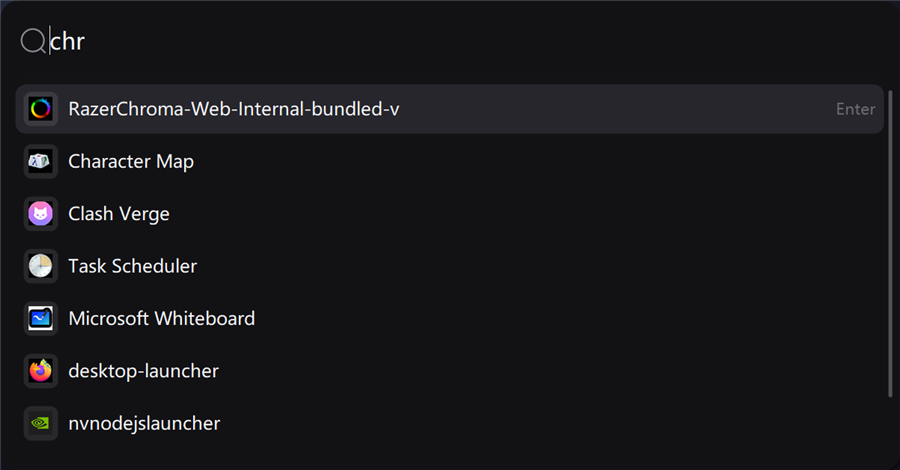
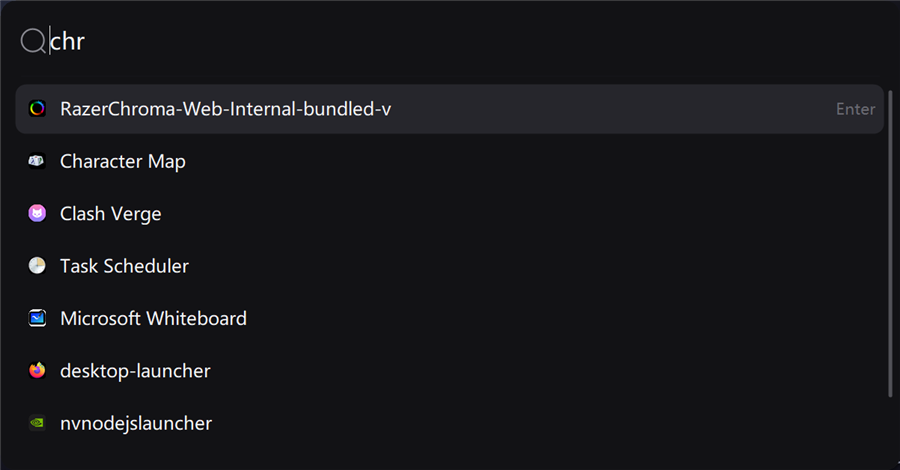
图标与搜索框图标精修
- 列表图标 18px -> 13px，去掉底片，方形图标加圆角裁剪，视觉重心回到文字
- 放大镜直径 30px -> 23px、笔触压细压暗，与列表图标同列对齐，并让输入文字与列表文字左边缘对齐
- 新增 config.ini 的 IconSize（10-28）与 IconWell 开关，可直接调外观不用重新编译

diff --git a/src/QuickStart.cs b/src/QuickStart.cs
@@ -131,7 +131,8 @@ namespace QuickStart
         public double WidthRatio = 0.47;
         public bool MatchPath = true;
         public bool ScanProgramFiles = true;
-        public bool IconWell = true;
+        public bool IconWell = false;
+        public int IconSize = 13;      // 图标边长（逻辑像素）
 
         private const string Template =
             "# QuickStart 配置\r\n" +
@@ -155,7 +156,10 @@ namespace QuickStart
             "ScanProgramFiles=true\r\n" +
             "\r\n" +
             "# 图标是否加一层极淡的圆角底片（让形状各异的图标看起来更整齐；true/false）\r\n" +
-            "IconWell=true\r\n";
+            "IconWell=false\r\n" +
+            "\r\n" +
+            "# 图标边长（逻辑像素），10-28\r\n" +
+            "IconSize=13\r\n";
 
         public static Config Load(string path)
         {
@@ -192,6 +196,10 @@ namespace QuickStart
                         case "matchpath": c.MatchPath = Truthy(v); break;
                         case "scanprogramfiles": c.ScanProgramFiles = Truthy(v); break;
                         case "iconwell": c.IconWell = Truthy(v); break;
+                        case "iconsize":
+                            int sz;
+                            if (int.TryParse(v, out sz) && sz >= 10 && sz <= 28) c.IconSize = sz;
+                            break;
                     }
                 }
             }
@@ -1137,7 +1145,8 @@ namespace QuickStart
         private Font _fontInput, _fontItem, _fontHint, _fontMono;
         private Theme _theme;
         private Brush _brBg, _brCard, _brText, _brSub, _brSel, _brAccent, _brSelBorder, _brTile;
-        private bool _softWell = true;      // 图标是否加"极淡底片"，来自 config.ini 的 IconWell
+        private bool _softWell = false;     // 图标是否加"极淡底片"，来自 config.ini 的 IconWell
+        private int _iconSize = 13;         // 图标边长，来自 config.ini 的 IconSize
         private Pen _penBorder, _penAccent, _penSelBorder, _penTile;
         private double _scale = 1.0;
         private List<AppEntry> _results = new List<AppEntry>(40);
@@ -1182,7 +1191,8 @@ namespace QuickStart
             AutoScaleMode = AutoScaleMode.None;
             Text = "QuickStart";
 
-            _softWell = Program.Cfg == null || Program.Cfg.IconWell;
+            _softWell = Program.Cfg != null && Program.Cfg.IconWell;
+            _iconSize = Program.Cfg == null ? 13 : Program.Cfg.IconSize;
             ApplyTheme(Theme.Create(Program.Cfg == null || Program.Cfg.Dark));
             _fontInput = MakeFont(17.5f);
             _fontItem = MakeFont(13.5f);
@@ -1355,7 +1365,7 @@ namespace QuickStart
             _normalRows = rows;
             _maxRows = rows;
 
-            _box.SetBounds(sidePad + D(22), pad + (inputH - _box.PreferredHeight) / 2, w - sidePad * 2 - D(22), _box.PreferredHeight);
+            _box.SetBounds(sidePad + D(30), pad + (inputH - _box.PreferredHeight) / 2, w - sidePad * 2 - D(30), _box.PreferredHeight);
 
             using (GraphicsPath path = Round(ClientRectangle, D(12)))
                 Region = new Region(path);
@@ -1813,25 +1823,28 @@ namespace QuickStart
             if (_sw.ElapsedMilliseconds >= 3) AppLog.LogPaint(_sw.ElapsedMilliseconds, _results.Count);
         }
 
-        /// <summary>输入框左侧的放大镜。对齐基准取文本框自身的垂直中线，而不是估一个魔法数字。</summary>
+        /// <summary>
+        /// 输入框左侧的放大镜。
+        /// 尺寸刻意和列表图标对齐（13px），笔触也压细压暗——它只是提示"这里是搜索框"，
+        /// 不应该比输入文字本身更抢眼。
+        /// </summary>
         private void DrawInputGlyph(Graphics g)
         {
             if (_cmdMode) return;   // 命令模式输入框本身以 > 开头，不再重复画
 
-            int dia = D(17);                          // 圆直径（与文字大写高度大致相当）
-            int handle = D(4);                        // 手柄长度（右下 45°）
-            int cx = D(16) + dia / 2;
-
-            // 圆心对齐文字中线：手柄本身就是向右下溢出的，把它算进居中反而会把圆顶高一截
+            int dia = D(13);
+            int left = D(22);                                  // 与列表图标同一列
             int cy = _box.Top + _box.Height / 2;
+            int handle = Math.Max(2, (int)Math.Round(dia * 0.30f));
 
-            var circle = new Rectangle(cx - dia / 2, cy - dia / 2, dia, dia);
-            float w = Math.Max(1.3f, (float)_scale * 1.25f);
-            using (var pen = new Pen(_theme.Sub, w))
+            var circle = new Rectangle(left, cy - dia / 2, dia, dia);
+            float w = Math.Max(1.05f, (float)_scale * 1.0f);   // 细笔触
+
+            using (var pen = new Pen(_theme.Hint, w))
             {
                 g.DrawEllipse(pen, circle);
-                int x1 = (int)(circle.Right - dia * 0.16);
-                int y1 = (int)(circle.Bottom - dia * 0.16);
+                int x1 = circle.Right - (int)(dia * 0.13);
+                int y1 = circle.Bottom - (int)(dia * 0.13);
                 g.DrawLine(pen, x1, y1, x1 + handle, y1 + handle);
             }
         }
@@ -1886,7 +1899,7 @@ namespace QuickStart
             }
 
             // 裸图标，不加底框：Raycast / PowerToys Run / Win11 开始菜单都是这么做的。
-            int iconSize = D(18);
+            int iconSize = D(_iconSize);
             int ix = row.Left + D(10);
             int iy = row.Top + (row.Height - iconSize) / 2;
 
@@ -1900,7 +1913,12 @@ namespace QuickStart
             Bitmap icon = _host.Icons.GetSized(entry.IconKey, iconSize);
             if (icon != null)
             {
+                // 圆角裁剪：整块方形的图标（便签、封面）不再是一个硬边色块，视觉上"瘦"一圈
+                GraphicsState st = g.Save();
+                using (GraphicsPath cp = Round(new Rectangle(ix, iy, iconSize, iconSize), Math.Max(2, iconSize / 4)))
+                    g.SetClip(cp, CombineMode.Intersect);
                 g.DrawImageUnscaled(icon, ix, iy);
+                g.Restore(st);
             }
             else
             {
@@ -1911,7 +1929,7 @@ namespace QuickStart
                     TextFormatFlags.HorizontalCenter | TextFormatFlags.VerticalCenter | TextFormatFlags.NoPrefix | TextFormatFlags.NoPadding);
             }
 
-            int tx = ix + iconSize + D(12);
+            int tx = ix + iconSize + D(11);
             int tw = row.Right - tx - D(56);
             TextRenderer.DrawText(g, entry.Name, _fontItem, new Rectangle(tx, row.Top, tw, row.Height), _theme.Text,
                 TextFormatFlags.Left | TextFormatFlags.VerticalCenter | TextFormatFlags.SingleLine |
